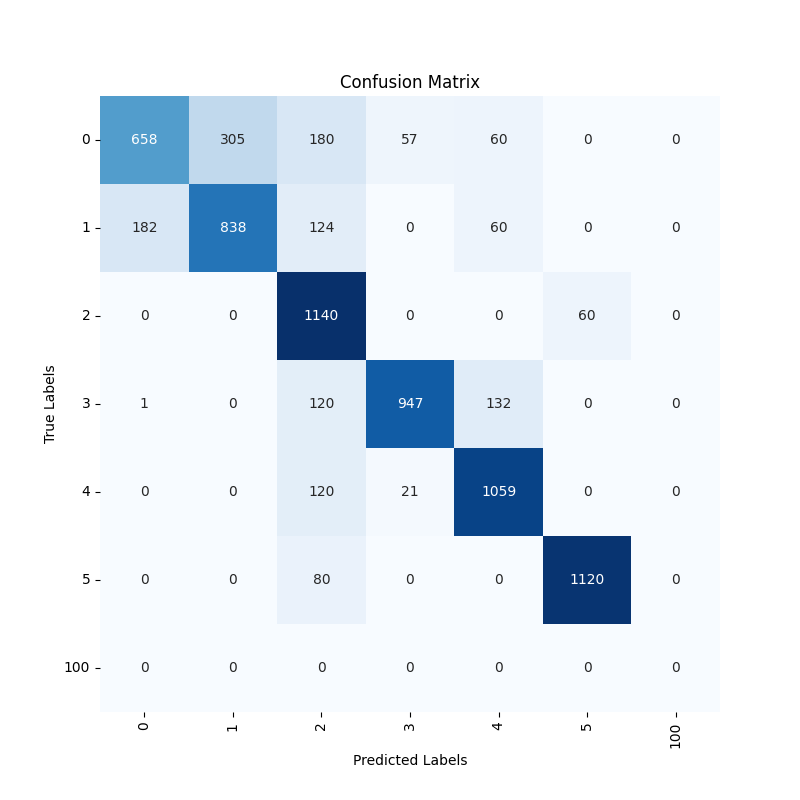
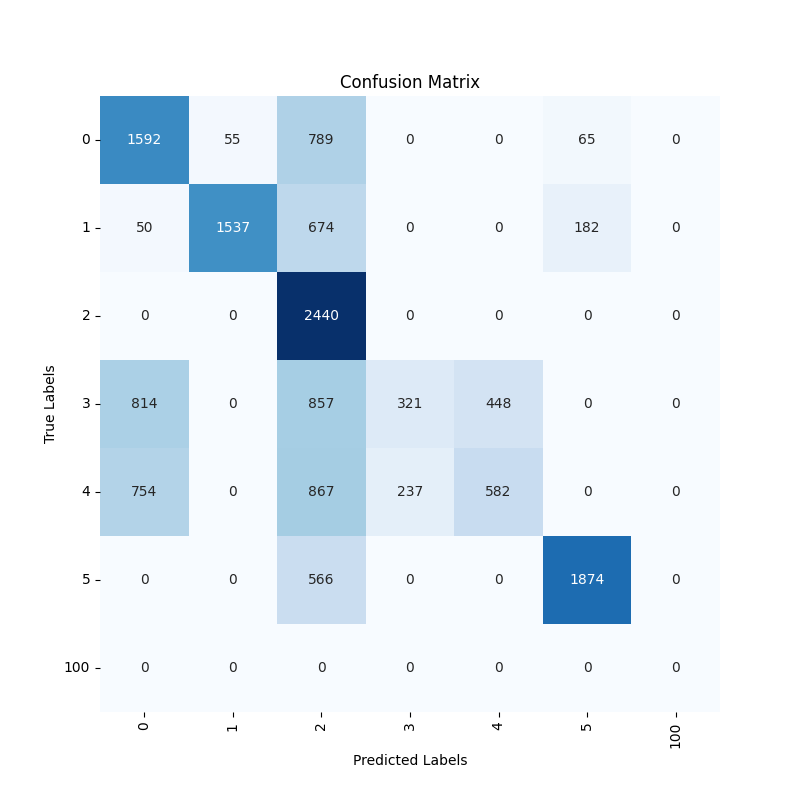
dataset add test

diff --git a/scripts/dataset.py b/scripts/dataset.py
@@ -177,9 +177,11 @@ class SpotDataModule(L.LightningDataModule):
         if self.classify:
             self.train_set = SpotDataset(dataset_mode="classify", seq = self.seq,  robot_type = self.robot_type, mode='train')
             self.val_set = SpotDataset(dataset_mode="classify",  seq = self.seq,  robot_type = self.robot_type, mode='val')
+            self.test_set = SpotDataset(dataset_mode="classify",  seq = self.seq,  robot_type = self.robot_type, mode='val')
         else:
             self.train_set = SpotDataset(dataset_mode="regression",  seq = self.seq, robot_type = self.robot_type, mode='train')
             self.val_set = SpotDataset(dataset_mode="regression",  seq = self.seq, robot_type = self.robot_type, mode='val')
+            self.test_set = SpotDataset(dataset_mode="regression",  seq = self.seq, robot_type = self.robot_type, mode='val')
     
     def train_dataloader(self):
         return DataLoader(self.train_set, batch_size=self.batch_size, shuffle=True,
@@ -188,6 +190,11 @@ class SpotDataModule(L.LightningDataModule):
     
     def val_dataloader(self):
         return DataLoader(self.val_set, batch_size=self.batch_size, shuffle=False,
+            num_workers=4,
+            pin_memory=True)
+    
+    def test_dataloader(self):
+        return DataLoader(self.test_set, batch_size=self.batch_size, shuffle=False,
             num_workers=4,
             pin_memory=True)
 

diff --git a/scripts/train.py b/scripts/train.py
@@ -17,9 +17,9 @@ def main(num_classes, markers_path, classify, seq, robot_type):
     log_dir = os.path.join(Path(__file__).parent.parent, "gouger_logs")
 
     if classify:
-        tb_logger = TensorBoardLogger(f"../gouger_logs/{robot_type}/classification")
+        tb_logger = TensorBoardLogger(f"../gouger_logs/{robot_type}", name = "classification")
     else:
-        tb_logger = TensorBoardLogger(f"../gouger_logs/{robot_type}/regression")
+        tb_logger = TensorBoardLogger(f"../gouger_logs/{robot_type}", name = "regression")
 
     data_module = SpotDataModule(classify, seq, robot_type = robot_type, batch_size=32)
     if classify:
@@ -38,7 +38,7 @@ def main(num_classes, markers_path, classify, seq, robot_type):
         # accelerator="gpu",
         accelerator=device,
         # accelerator="cpu",
-        max_epochs=20,
+        max_epochs=40, 
         logger=[tb_logger],
         callbacks=[checkpoint_callback, early_stop_callback]
     )

diff --git a/scripts/network.py b/scripts/network.py
@@ -20,9 +20,13 @@ class JointNetwork(nn.Module):
                 nn.ReLU(),
                 nn.Linear(64, 128),
                 nn.ReLU(),
-                nn.Linear(128, 256),
+                nn.Linear(128, 128),
                 nn.ReLU(),
-                nn.Linear(256, 128),
+                nn.Linear(128, 128),
+                nn.ReLU(),
+                nn.Linear(128, 128),
+                nn.ReLU(),
+                nn.Linear(128, 128),
                 nn.ReLU(),
                 nn.Linear(128, output_dim),
                 nn.Softmax(dim=1)
@@ -52,7 +56,7 @@ class LitSpot(L.LightningModule):
         # self.device = device  
 
         self.classify = classify
-        self.learning_rate = 1e-3
+        self.learning_rate = 7e-5
 
         markers_pos = np.loadtxt(markers_path, delimiter=',')
         self.marker_positions = {f"{i}": pos for i, pos in enumerate(markers_pos)}
